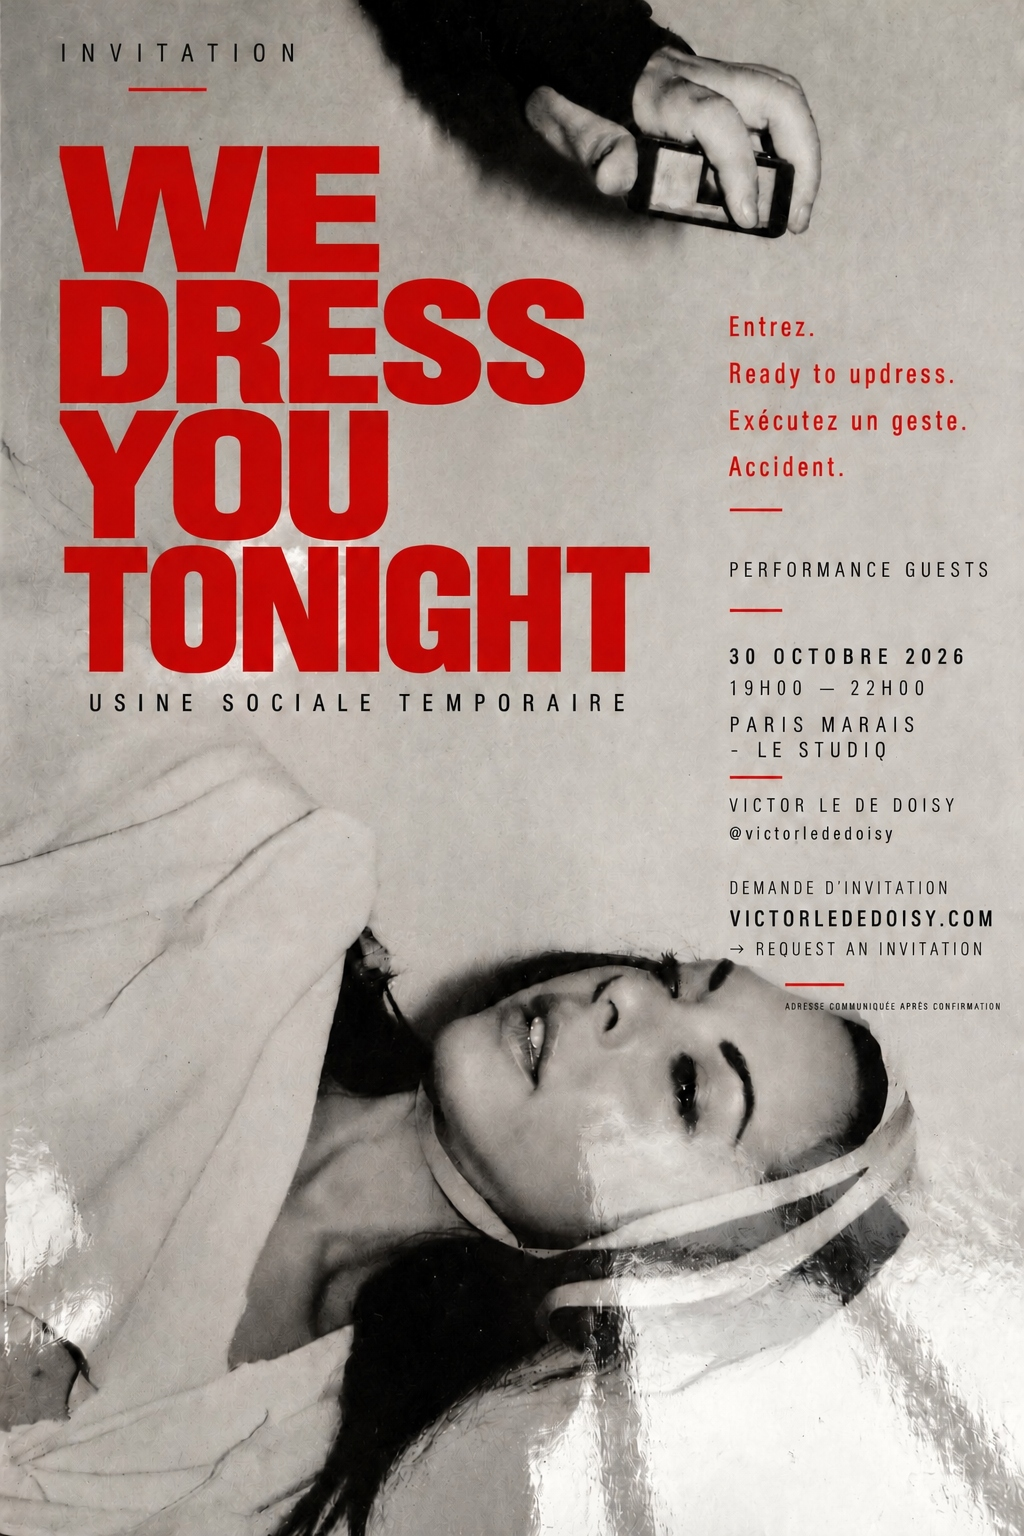
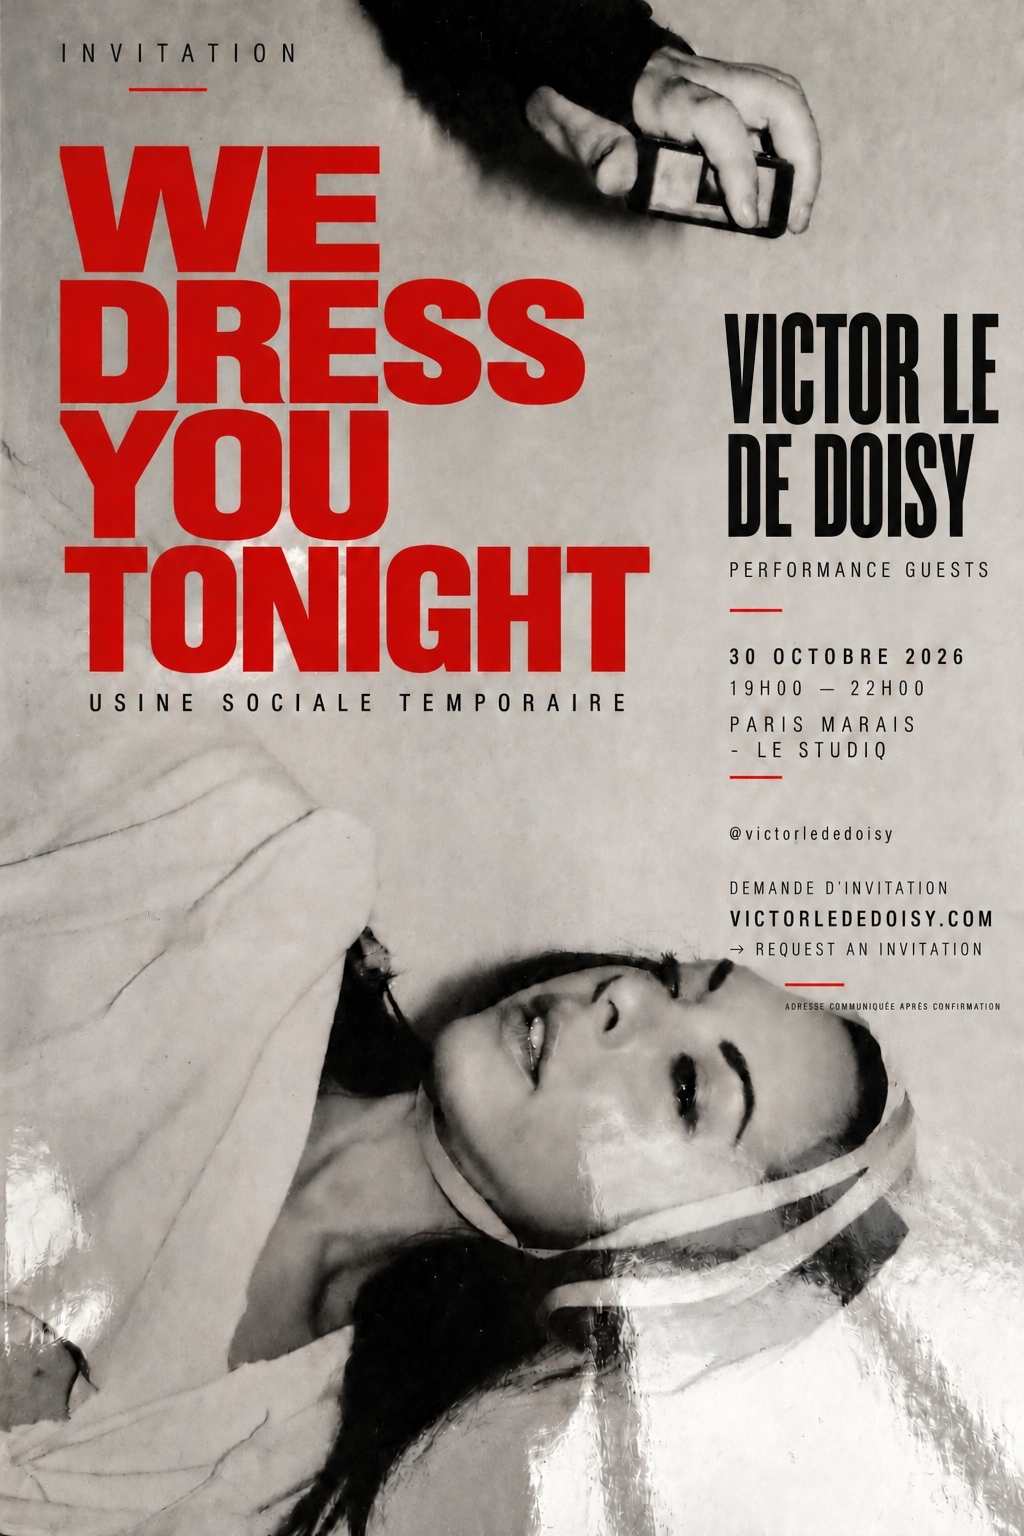
Link homepage flyer to invitation form and simplify artwork
Make the entire homepage flyer an accessible invitation link. Enlarge the artist credit and remove the four introductory phrases from the flyer.

diff --git a/app/page.tsx b/app/page.tsx
@@ -35,10 +35,10 @@ export default function HomePage() {
             </div>
           </div>
           {hasWeDressFlyer && (
-            <div className="we-dress__flyer">
+            <Link className="we-dress__flyer" style={{ display: "block" }} href="/we-dress-you-tonight" aria-label="Demander une invitation à WE DRESS YOU TONIGHT">
               {/* eslint-disable-next-line @next/next/no-img-element */}
-              <img src={`${process.env.GITHUB_PAGES === "true" ? "/victor-le-site" : ""}/media/we-dress-you-tonight/invitation-30-octobre-2026.jpg?v=invitation-url`} alt="Invitation WE DRESS YOU TONIGHT — 30 octobre 2026, 19 h à 22 h, Paris Marais - Le Studio" loading="lazy" />
-            </div>
+              <img src={`${process.env.GITHUB_PAGES === "true" ? "/victor-le-site" : ""}/media/we-dress-you-tonight/invitation-30-octobre-2026.jpg?v=artist-invitation`} alt="Invitation WE DRESS YOU TONIGHT — 30 octobre 2026, 19 h à 22 h, Paris Marais - Le Studio" loading="lazy" />
+            </Link>
           )}
           <Link className="we-dress__register" href="/we-dress-you-tonight">REQUEST AN INVITATION ↗</Link>
         </section>

diff --git a/app/we-dress-you-tonight/page.tsx b/app/we-dress-you-tonight/page.tsx
@@ -35,7 +35,7 @@ BRING A BOTTLE — Apportez une bouteille.`;
       </div>
       <div className={styles.flyer}>
         {/* eslint-disable-next-line @next/next/no-img-element */}
-        <img src={`${process.env.GITHUB_PAGES === "true" ? "/victor-le-site" : ""}/media/we-dress-you-tonight/invitation-30-octobre-2026.jpg?v=invitation-url`} alt="Invitation WE DRESS YOU TONIGHT — 30 octobre 2026, 19 h à 22 h, Paris Marais - Le Studio" />
+        <img src={`${process.env.GITHUB_PAGES === "true" ? "/victor-le-site" : ""}/media/we-dress-you-tonight/invitation-30-octobre-2026.jpg?v=artist-invitation`} alt="Invitation WE DRESS YOU TONIGHT — 30 octobre 2026, 19 h à 22 h, Paris Marais - Le Studio" />
       </div>
       <p className={styles.kicker}>BRING A BOTTLE — Apportez une bouteille.</p>
       <h2>DEMANDE DE PARTICIPATION</h2>
